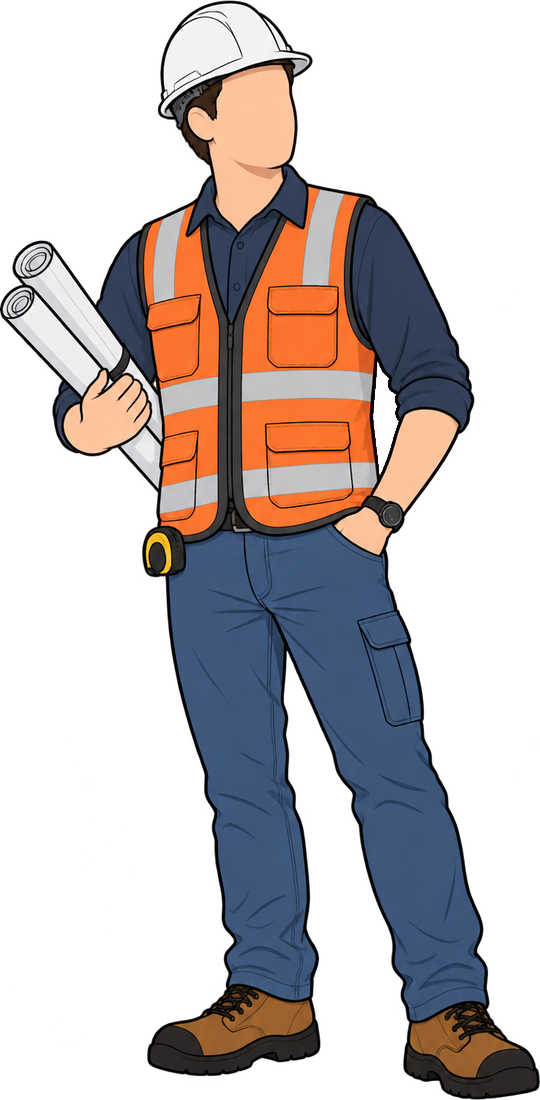
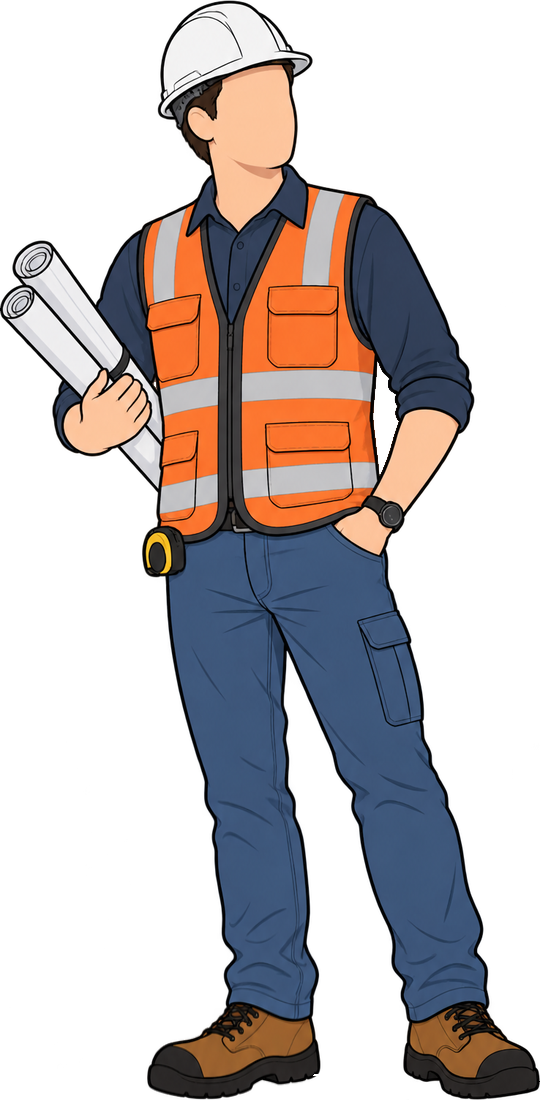
scale figure: the engineer by default, both feet on the ground
Marco: «el personaje Sumari no me gusta mucho, ¿ponemos el del
ingeniero?». A new document now starts with the engineer (1.75 m, named
tr("Engineer")) where Sumari stood; Sumari stays in the people library.

His cutout's far foot sat 23 px (of 1100) above the other, ~4 cm at
1.75 m, floating in a front elevation. As with Sumari (1e5fe32) the far
leg is stretched from the crotch down (5.5 %, split along the gap
between the legs row by row) so both soles meet the image's bottom edge,
the billboard's ground anchor. Checked side by side against a ground
line. The AI recipes name the figure «Ingeniero» («Engineer» in English).

Changed region(s): [[0.2667, 0.7109, 0.5926, 1.0], [0.3259, 0.6182, 0.4741, 0.8345], [0.5037, 0.6182, 0.5333, 0.68]]

diff --git a/tests/test_scale_figure.py b/tests/test_scale_figure.py
@@ -1,6 +1,6 @@
 # SPDX-License-Identifier: GPL-3.0-or-later
 # Copyright (C) 2026 Marco Sumari Tellez and IngeTrazo contributors.
-"""The Sumari scale figure in a fresh document: 1.72 m tall and OFF to the
+"""The scale figure in a fresh document — the engineer, 1.75 m tall — OFF to the
 left of the origin (SketchUp-style), so the origin stays visible as the
 drawing reference."""
 from __future__ import annotations
@@ -16,13 +16,13 @@ if QApplication.instance() is None:
     QApplication(sys.argv[:1])
 
 
-def test_scale_figure_left_of_origin_and_172():
+def test_scale_figure_left_of_origin_and_175():
     from views.main_window import MainWindow
     win = MainWindow()
     try:
         fig = next(g for g in win.viewport.scene.groups
                    if getattr(g, "billboard", False))
-        assert fig.name == "Sumari"
+        assert fig.name in ("Engineer", "Ingeniero")
         xs = [v.position.x() for v in fig.mesh.vertices]
         ys = [v.position.y() for v in fig.mesh.vertices]
         zs = [v.position.z() for v in fig.mesh.vertices]
@@ -31,7 +31,7 @@ def test_scale_figure_left_of_origin_and_172():
         assert abs(anchor_x + 0.65) < 1e-6         # 65 cm left of the origin
         assert abs(anchor_y + 0.60) < 1e-6         # 60 cm toward the viewer
         assert min(zs) == 0.0                      # feet on the ground
-        assert abs(max(zs) - 1.72) < 1e-6          # the reference height
+        assert abs(max(zs) - 1.75) < 1e-6          # the reference height
     finally:
         win._saved_version = win.viewport.scene.version
         win.close()

diff --git a/views/main_window.py b/views/main_window.py
@@ -3608,15 +3608,17 @@ class MainWindow(QMainWindow):
     def _insert_scale_figure(self) -> None:
         """Place the scale figure in a fresh document, SketchUp-style: OFF
         to the left of the origin, so the origin stays visible as the
-        drawing reference (user request — SketchUp does the same). 1.72 m
+        drawing reference (user request — SketchUp does the same). 1.75 m
         tall. A plain group — select and Delete removes it. Added outside
         the undo history and without dirtying the document."""
         # SketchUp's placement, measured by the user: 60-70 cm to the left
         # and 60 cm forward (toward the viewer) of the origin.
         from PySide6.QtGui import QVector3D
         at = QVector3D(-0.65, -0.60, 0.0)
-        group = self._make_billboard_person("sumari.png", height=1.72,
-                                            name="Sumari", position=at)
+        # The engineer since 26-09 (Marco: «el personaje Sumari no me gusta
+        # mucho, ¿ponemos el del ingeniero?»); Sumari stays in the library.
+        group = self._make_billboard_person("ingeniero.png", height=1.75,
+                                            name=tr("Engineer"), position=at)
         if group is None:
             group = self._make_billboard_person(position=at)
         if group is None:

diff --git a/core/ai_recipes.py b/core/ai_recipes.py
@@ -83,9 +83,10 @@ directo y lee el error.
 Un pedido sencillo (una casa, una mesa, un poste) va COMPLETO de una sola \
 vez, con detalles razonables aunque no te los pidan; los grandes, por \
 pasos. Verifica con las capturas del viewport e itera.
-La figura de persona de un documento nuevo se llama «Sumari» y es la \
-ESCALA (1,72 m, un billboard): no la borres ni la muevas salvo que te lo \
-pidan, y no la tomes por el modelo."""
+La figura de persona de un documento nuevo se llama «Ingeniero» \
+(«Engineer» si la interfaz está en inglés) y es la ESCALA (1,75 m, un \
+billboard): no la borres ni la muevas salvo que te lo pidan, y no la tomes \
+por el modelo."""
 
 #: Model conventions. First line of everything the model reads.
 UNITS = ("IngeTrazo es un modelador 3D libre estilo SketchUp: Z arriba, "

diff --git a/tests/test_ai_bridge.py b/tests/test_ai_bridge.py
@@ -212,7 +212,7 @@ def test_the_mcp_door_hands_the_model_the_same_recipe_book_as_the_assistant():
     init = mcp.handle({"jsonrpc": "2.0", "id": 1, "method": "initialize",
                        "params": {}})
     instructions = init["result"]["instructions"]
-    assert "Sumari" in instructions          # the scale figure, not the model
+    assert "Ingeniero" in instructions       # the scale figure, not the model
     assert ai_recipes.RECIPES in instructions
 
     # Same source as the assistant's prompt: teach a helper once.

diff --git a/CHANGELOG.md b/CHANGELOG.md
@@ -6,6 +6,11 @@ follow [SemVer](https://semver.org).
 
 ## [Sin publicar]
 
+### Cambiado
+- **La figura de escala de un documento nuevo es el Ingeniero** (1,75 m,
+  casco y chaleco), con los dos pies en el suelo: su pie izquierdo flotaba
+  unos 4 cm. Sumari sigue en la biblioteca de personas.
+
 ### Añadido
 - **IngeTrazo en chino simplificado** (Idioma ▸ 简体中文), traducido por
   @liujvnes (#123). Su archivo no cargaba por una coma y porque algunas
